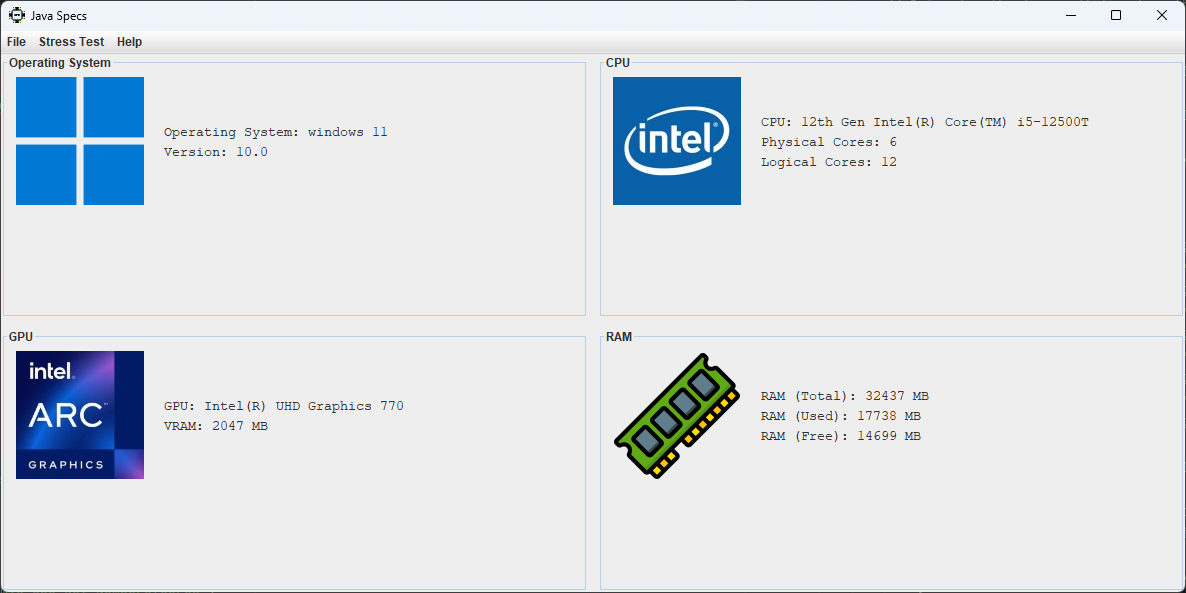
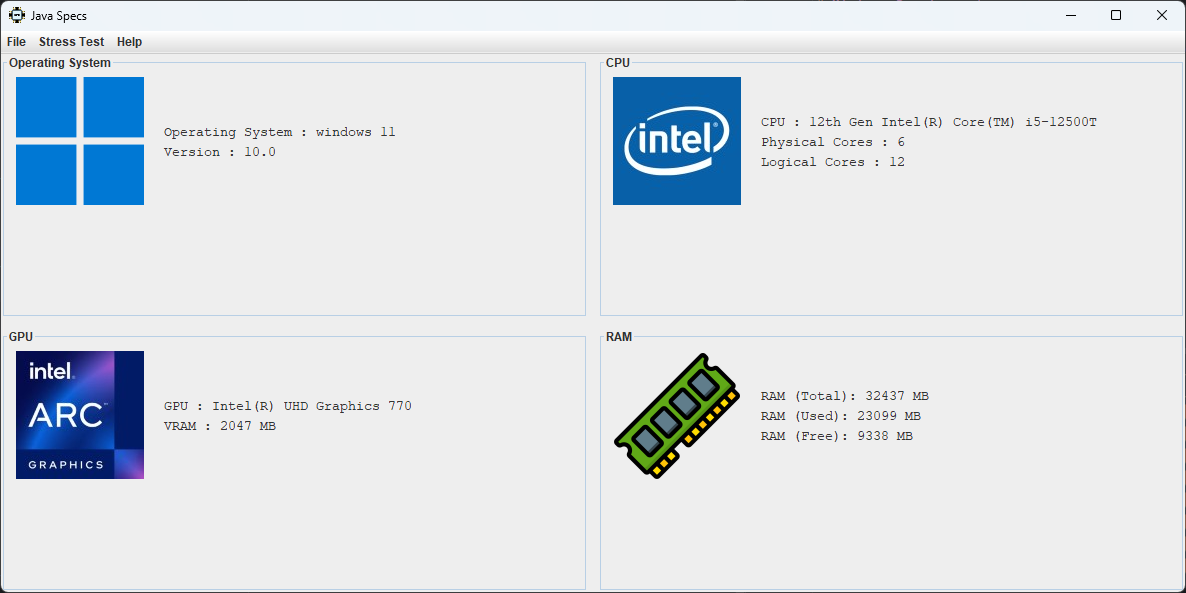
Quick Fix

diff --git a/src/Help.java b/src/Help.java
@@ -20,10 +20,10 @@ public class Help {
         // Add help text with explanations
         String helpContent = "Help Information:\n\n" +
                 "This application provides system specifications:\n\n" +
-                "1. **CPU**: Central Processing Unit. It is the primary component of a computer that performs most of the processing inside a computer.\n" +
-                "2. **GPU**: Graphics Processing Unit. It is responsible for rendering images, animations, and video for the computer's screen.\n" +
-                "3. **RAM**: Random Access Memory. It is the memory used by the CPU to store data that is being processed.\n" +
-                "4. **VRAM**: Video RAM. It is a special type of RAM used specifically to store image data for the GPU.\n\n" +
+                "1. CPU : Central Processing Unit. It is the primary component of a computer that performs most of the processing inside a computer.\n" +
+                "2. GPU : Graphics Processing Unit. It is responsible for rendering images, animations, and video for the computer's screen.\n" +
+                "3. RAM : Random Access Memory. It is the memory used by the CPU to store data that is being processed.\n" +
+                "4. VRAM : Video RAM. It is a special type of RAM used specifically to store image data for the GPU.\n\n" +
                 "You can view detailed information about your CPU, GPU, RAM, and more in the main application window.\n" +
                 "\n" +
                 "FAQ :\n" +

diff --git a/src/StressTest.java b/src/StressTest.java
@@ -23,7 +23,7 @@ public class StressTest {
         panel.setLayout(new BorderLayout());
 
         // Create a label for the countdown timer
-        JLabel timerLabel = new JLabel("Time left: 60 seconds", SwingConstants.CENTER);
+        JLabel timerLabel = new JLabel("Time left : 60 seconds", SwingConstants.CENTER);
         timerLabel.setFont(new Font("Serif", Font.BOLD, 20));
         panel.add(timerLabel, BorderLayout.NORTH);
 
@@ -40,7 +40,7 @@ public class StressTest {
 
         // Input fields for selecting time duration (with default of 60 seconds)
         JPanel inputPanel = new JPanel(new GridLayout(3, 2)); // Change to 3 rows for time field and buttons
-        JLabel timeLabel = new JLabel("Test Duration (seconds): ");
+        JLabel timeLabel = new JLabel("Test Duration (seconds) : ");
         JTextField timeField = new JTextField("60", 5);  // Default to 60 seconds
         timeLabel.setLabelFor(timeField);
         inputPanel.add(timeLabel);
@@ -127,7 +127,7 @@ public class StressTest {
             @Override
             public void actionPerformed(ActionEvent e) {
                 if (timeRemaining > 0) {
-                    timerLabel.setText("Time left: " + timeRemaining + " seconds");
+                    timerLabel.setText("Time left : " + timeRemaining + " seconds");
                     timeRemaining--;
                 } else {
                     ((Timer) e.getSource()).stop();

diff --git a/src/Specs.java b/src/Specs.java
@@ -14,7 +14,7 @@ public class Specs {
     public static String getOperatingSystem() {
         String osName = System.getProperty("os.name").toLowerCase();
         String osVersion = System.getProperty("os.version");
-        return "Operating System: " + osName + "\nVersion: " + osVersion;
+        return "Operating System : " + osName + "\nVersion : " + osVersion;
     }
 
     // Method to get CPU information
@@ -37,7 +37,7 @@ public class Specs {
         int physicalCores = getPhysicalCores();
         int logicalCores = Runtime.getRuntime().availableProcessors(); // Logical cores (threads)
 
-        return "CPU: " + cpuName + "\nPhysical Cores: " + physicalCores + "\nLogical Cores: " + logicalCores;
+        return "CPU : " + cpuName + "\nPhysical Cores : " + physicalCores + "\nLogical Cores : " + logicalCores;
     }
 
     // Method to get the number of physical cores based on the OS
@@ -152,7 +152,7 @@ public class Specs {
             gpuName = "Unknown GPU";
         }
 
-        return "GPU: " + gpuName + "\nVRAM: " + gpuVram + " MB"; // Return GPU information
+        return "GPU : " + gpuName + "\nVRAM : " + gpuVram + " MB"; // Return GPU information
     }
 
     // Method to get RAM information (excluding cache and swap on macOS and Linux)

diff --git a/src/Refresh.java b/src/Refresh.java
@@ -34,7 +34,7 @@ public class Refresh {
         String[] options = {"1 second", "5 seconds", "10 seconds", "15 seconds", "60 seconds", "Custom", "Disabled"};
         String selected = (String) JOptionPane.showInputDialog(
                 parent,
-                "Select Auto Refresh Interval:",
+                "Select Auto Refresh Interval :",
                 "Auto Refresh",
                 JOptionPane.QUESTION_MESSAGE,
                 null,
@@ -61,7 +61,7 @@ public class Refresh {
                     setAutoRefresh(60, mainPanel); // 60 seconds
                     break;
                 case "Custom":
-                    String input = JOptionPane.showInputDialog(parent, "Enter custom interval in seconds (only numbers):");
+                    String input = JOptionPane.showInputDialog(parent, "Enter custom interval in seconds (only numbers) :");
                     if (input != null) {
                         try {
                             int customInterval = Integer.parseInt(input); // Interval in seconds
